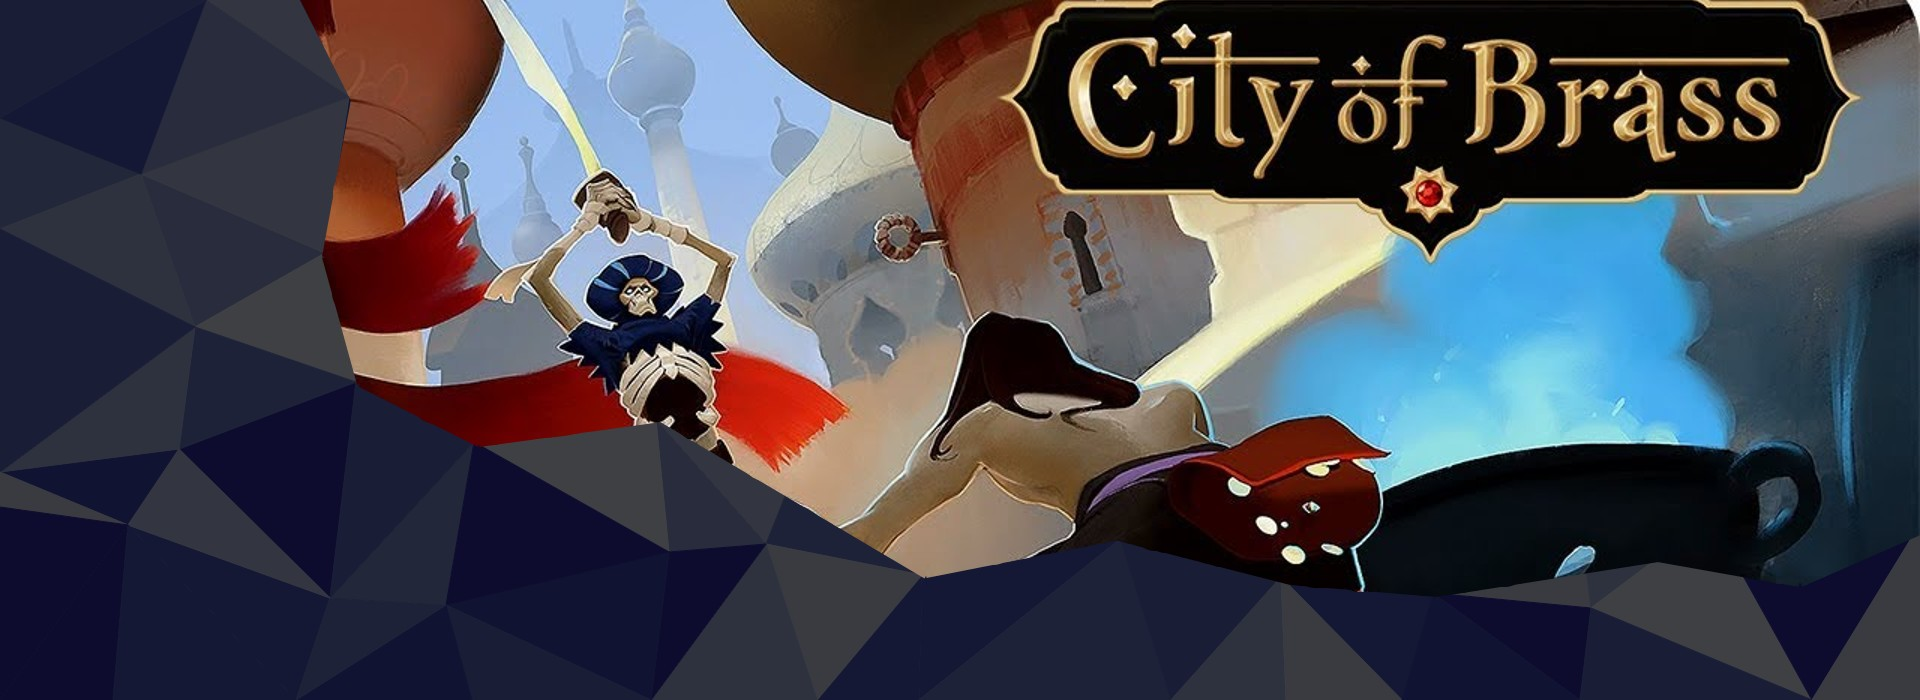
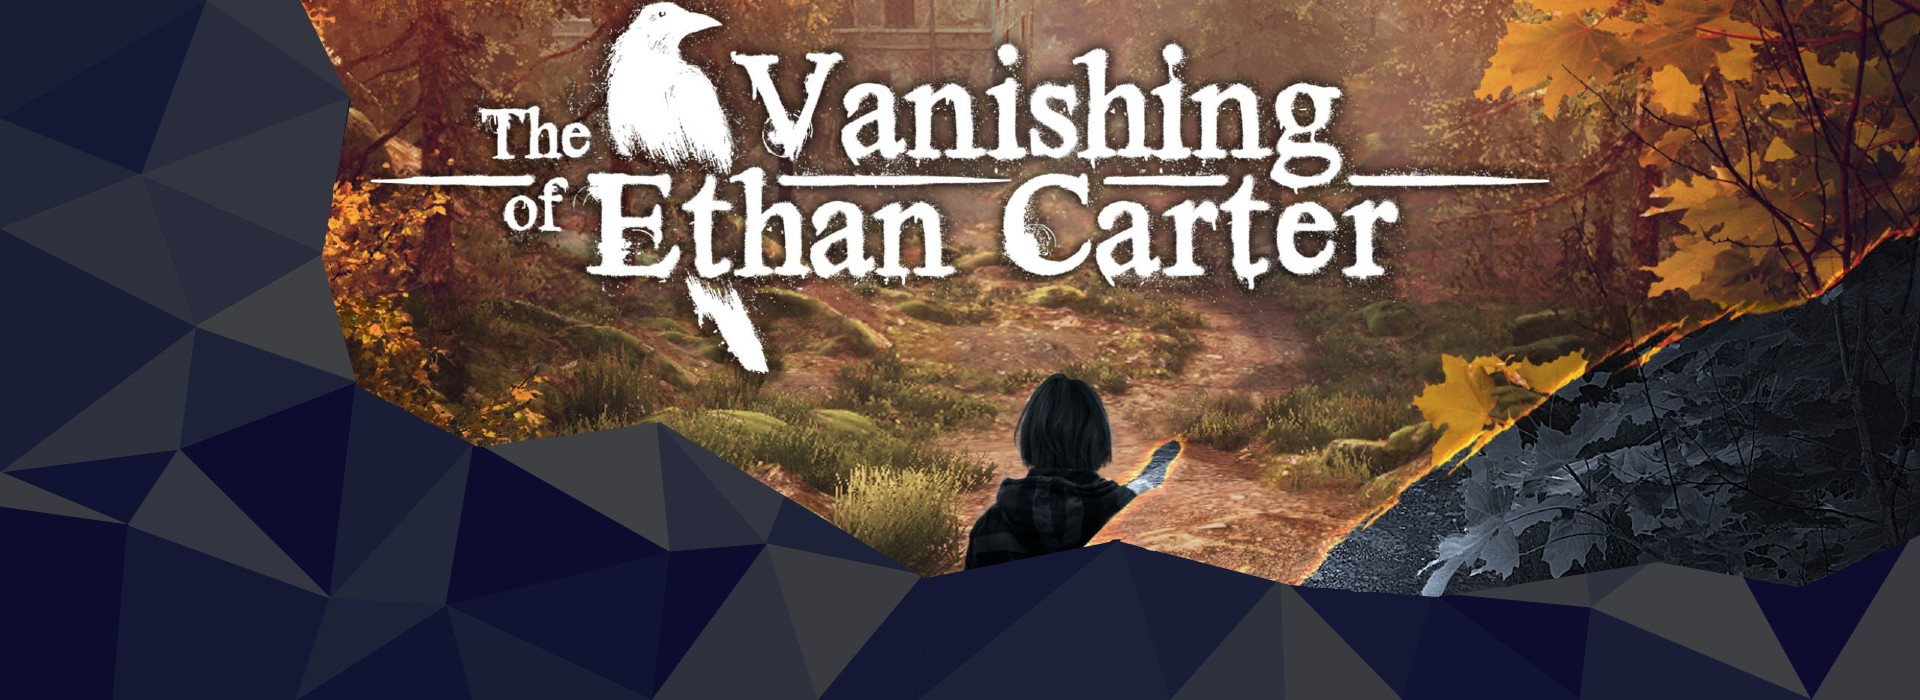
actualizacion 7/4

diff --git a/index.html b/index.html
@@ -61,7 +61,7 @@
                         <div class="carousel-caption d-md-block">
                             <h3 class="text-tipo2">Epic Games</h3>
                             <p class="text-tipo2">Descarga tu juego gratis de esta semana</p>
-                            <a href="https://store.epicgames.com/es-MX/p/city-of-brass" target="_blank"><button class="boton">Consiguelo</button></a>
+                            <a href="https://store.epicgames.com/es-MX/p/the-vanishing-of-ethan-carter" target="_blank"><button class="boton">Consiguelo</button></a>
                         </div>
                     </div>
                     <div class="carousel-item mislider">
@@ -84,16 +84,16 @@
                         <img src="multimedia/images/slider/slider4.jpg" class="d-block w-100" alt="imagen carrusel">
                         <div class="carousel-caption d-md-block">
                             <h3 class="text-tipo2">Proximamente</h3>
-                            <p class="text-tipo2">LEGO Star Wars: saga skywalker <br> (5 de abril)</p>
-                            <a href="https://store.steampowered.com/app/920210/LEGO_Star_Wars_La_Saga_Skywalker/" target="_blank"><button class="boton">Pre-compra</button></a>
+                            <p class="text-tipo2">evil dead: the game <br> (13 de mayo)</p>
+                            <a href="https://store.epicgames.com/es-MX/p/evil-dead-the-game" target="_blank"><button class="boton">Pre-compra</button></a>
                         </div>
                     </div>
                     <div class="carousel-item mislider">
                         <img src="multimedia/images/slider/slider5.jpg" class="d-block w-100" alt="imagen carrusel">
                         <div class="carousel-caption d-md-block">
                             <h3 class="text-tipo2">Recomendacion</h3>
-                            <p class="text-tipo2">Borderlands 3<br>75% off hasta el 7/4</p>
-                            <a href="https://store.epicgames.com/es-MX/p/borderlands-3" target="_blank"><button class="boton">Compralo</button></a>
+                            <p class="text-tipo2">Horizon: Zero dawn<br>50% off hasta el 17/4</p>
+                            <a href="https://store.steampowered.com/app/1151640/Horizon_Zero_Dawn_Complete_Edition/" target="_blank"><button class="boton">Compralo</button></a>
                         </div>
                     </div>
                 </div>
@@ -113,32 +113,33 @@
             <h2 class="sub_title text-tipo1">Ultimas noticias</h2>
             <div class="info_1 fondo">
                 <div>                
-                    <h3 class="texto_h3 titulo_info1">Vampire: the masquerade blood hunt</h3>
-                    <p class="texto_p parrafo_info1">Bloodhunt es un emocionante juego battle royale gratuito ambientado en el universo de Vampire: The Masquerade. 
-                        Una traición desleal ha provocado una guerra entre vampiros, que también son el blanco de aniquilación de la sociedad secreta conocida como la Entidad. Usa tus poderes sobrenaturales, armas e ingenio en este juego battle royale en tercera persona para restaurar la mascarada. <br>Disfrutalo este 27 de abril</p>
+                    <h3 class="texto_h3 titulo_info1">League of legends</h3>
+                    <p class="texto_p parrafo_info1">Leyendas del Cosplay es una de las mejores competencias de cosplay en Latinoamérica la cual organiza Riot games. Las tres asombrosas ganadoras nos cuentan el complejo trabajo detrás de sus increíbles creaciones. ¿Qué las inspira? ¿Cuál ha sido su más grande desafío? Y, ¿qué es lo más valioso detrás de cada creación? </p>
                 </div> 
                 <div> 
-                    <iframe width="560" height="315" src="https://www.youtube.com/embed/i3X937YcpWw" title="YouTube video player" frameborder="0" allow="accelerometer; autoplay; clipboard-write; encrypted-media; gyroscope; picture-in-picture" allowfullscreen></iframe>
+                    <iframe width="560" height="315" src="https://www.youtube.com/embed/JehsMk3V99w" title="YouTube video player" frameborder="0" allow="accelerometer; autoplay; clipboard-write; encrypted-media; gyroscope; picture-in-picture" allowfullscreen></iframe>
                 </div> 
             </div>
 
             <div class="info_2 fondo">
                 <div class="video_2">
-                    <iframe width="560" height="315" src="https://www.youtube.com/embed/TZGpAQczMGU" title="YouTube video player" frameborder="0" allow="accelerometer; autoplay; clipboard-write; encrypted-media; gyroscope; picture-in-picture" allowfullscreen></iframe>
+                    <iframe width="560" height="315" src="https://www.youtube.com/embed/kY2Rka8uA90" title="YouTube video player" frameborder="0" allow="accelerometer; autoplay; clipboard-write; encrypted-media; gyroscope; picture-in-picture" allowfullscreen></iframe>
                 </div>
                 <div>
-                    <h3 class="texto_h3 titulo_info2">One piece: ODYSSEY</h3>
-                    <p class="texto_p parrafo_info2">Bandai Namco Entertainment anunció con motivo del 25 aniversario de One Piece el que parece ser el videojuego basado en el manganime más ambicioso hasta la fecha. los jugadores vivirán una aventura completamente nueva junto a personajes conocidos como Luffy, Zoro y Nami, y otros inéditos en la serie. Llegará en algún momento de 2022 para PC, PS5, Xbox Series y PS4</p>  
+                    <h3 class="texto_h3 titulo_info2">Godfall: Ultimate edition</h3>
+                    <p class="texto_p parrafo_info2">Godfall: Ultimate Edition es la mejor y más completa forma de disfrutar de Godfall. Experimente todas las actualizaciones y mejoras desde el lanzamiento reunidas en un paquete Ultimate. Godfall: Ultimate Edition incluye el juego base, Fire & Darkness Expansion y los paquetes cosméticos Ascended y Pre-order para tu viaje.
+                    Aplasta a tus enemigos y hazte con el máximo poder en esta aventura de acción impulsada por el botín ambientada en un brillante mundo de fantasía.</p>  
                 </div>    
             </div>
 
             <div class="info_1 fondo">
                 <div>                
-                    <h3 class="texto_h3 titulo_info1">League of legends</h3>
-                    <p class="texto_p parrafo_info1">Nuevo capitulo de Tacticas de la grieta, aprende nuevos trucos y pon a temblar a todos tus enemigos con la Cazarrecompensas. Si bien Miss Fortune parece una campeona sencilla, varias de sus habilidades tienen un potencial altísimo para ganar tus partidas de League Of Legends.</p>
+                    <h3 class="texto_h3 titulo_info1">UNO Valhalla DLC</h3>
+                    <p class="texto_p parrafo_info1">¡Juega tu juego de cartas favorito como un vikingo en UNO® Valhalla DLC!
+                    Por primera vez en UNO, el tablero es parte del juego: explora, recolecta recursos, lucha contra otros jugadores y juega todas tus cartas para ser digno de Valhalla.</p>
                 </div> 
                 <div> 
-                    <iframe width="560" height="315" src="https://www.youtube.com/embed/Wb9JdJ3mgb0" title="YouTube video player" frameborder="0" allow="accelerometer; autoplay; clipboard-write; encrypted-media; gyroscope; picture-in-picture" allowfullscreen></iframe>
+                    <iframe width="560" height="315" src="https://www.youtube.com/embed/fXLtFA__3ok" title="YouTube video player" frameborder="0" allow="accelerometer; autoplay; clipboard-write; encrypted-media; gyroscope; picture-in-picture" allowfullscreen></iframe>
                 </div> 
             </div>
         </section>
